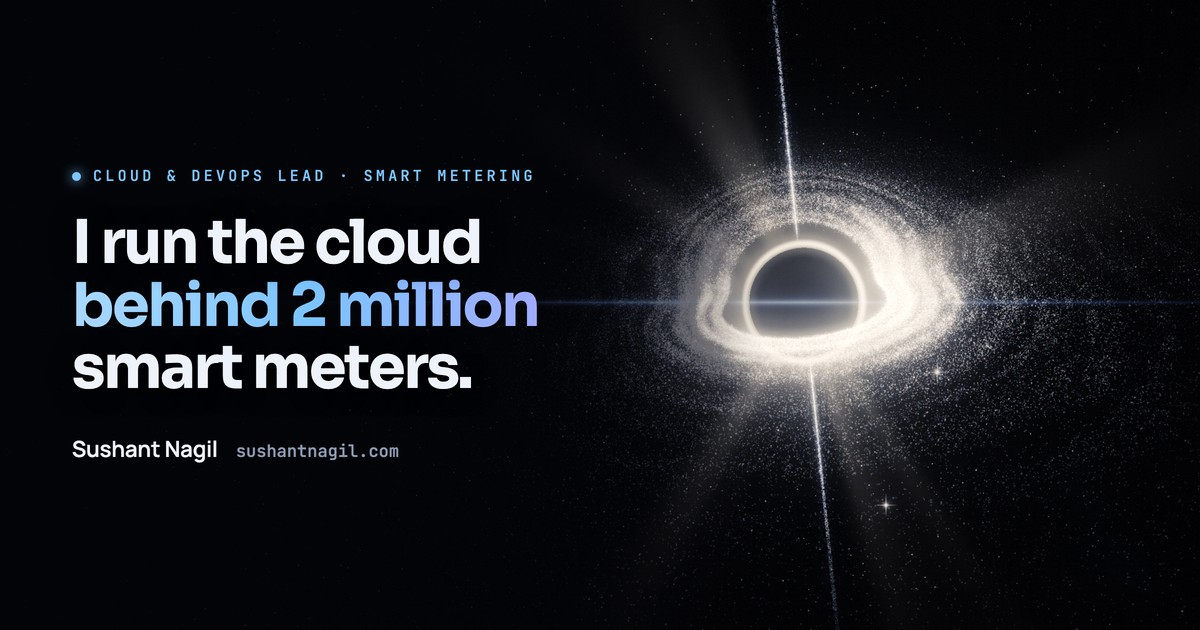
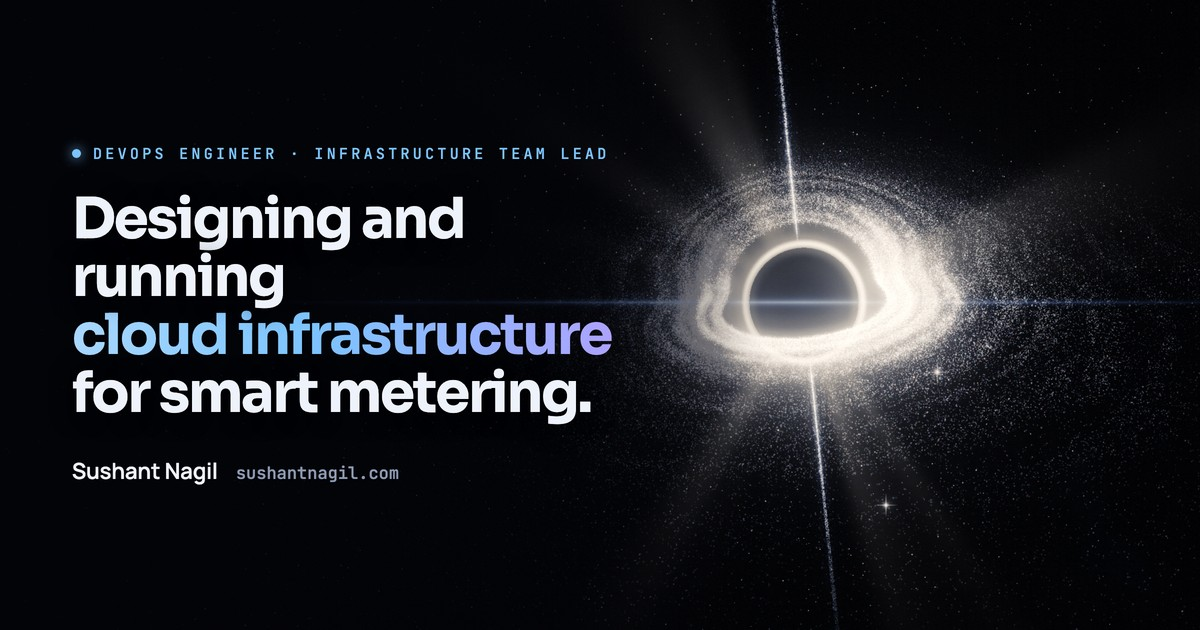
Write about the work I do, not platform scale
The hero and about now describe the role and the kind of decisions I make, with specialties in one line, as other engineers' sites do. Project descriptions lead with what I designed or led. The headline numbers are about my work rather than platform counts that go stale. The contact card is a short sign-off with role, focus areas, certifications and education.

Changed region(s): [[0.0617, 0.2111, 0.5242, 0.6937], [0.0617, 0.6937, 0.3392, 0.7841]]

diff --git a/site/index.html b/site/index.html
@@ -4,7 +4,7 @@
 <meta charset="utf-8">
 <meta name="viewport" content="width=device-width,initial-scale=1,viewport-fit=cover">
 <title>Sushant Nagil</title>
-<meta name="description" content="Sushant Nagil leads the infrastructure team at Polaris Smart Metering, running the AWS and OCI systems behind 2 million smart meters for state utilities in India.">
+<meta name="description" content="Sushant Nagil, DevOps engineer and infrastructure team lead at Polaris Smart Metering. Kubernetes, Kafka and MQTT, multi-account AWS and OCI, and cloud cost.">
 <link rel="canonical" href="https://sushantnagil.com/">
 <meta name="theme-color" content="#030409">
 <link rel="icon" href="/favicon.svg" type="image/svg+xml">
@@ -12,12 +12,12 @@
 <link rel="preload" as="image" href="/media/portrait.jpg" media="(max-aspect-ratio: 4/5)">
 <meta property="og:type" content="website">
 <meta property="og:url" content="https://sushantnagil.com/">
-<meta property="og:title" content="Sushant Nagil · Cloud &amp; DevOps lead">
-<meta property="og:description" content="I lead the infrastructure team at Polaris Smart Metering. We run the AWS and OCI systems behind 2 million smart meters for state utilities in India.">
+<meta property="og:title" content="Sushant Nagil · DevOps Engineer and Infrastructure Team Lead">
+<meta property="og:description" content="Sushant Nagil, DevOps engineer and infrastructure team lead at Polaris Smart Metering. Kubernetes, Kafka and MQTT, multi-account AWS and OCI, and cloud cost.">
 <meta property="og:image" content="https://sushantnagil.com/og.jpg">
 <meta property="og:image:width" content="1200">
 <meta property="og:image:height" content="630">
-<meta property="og:image:alt" content="A glowing black hole on a dark starfield, beside the line: I run the cloud behind 2 million smart meters.">
+<meta property="og:image:alt" content="A glowing black hole on a dark starfield, beside the line: Designing and running cloud infrastructure for smart metering.">
 <meta name="twitter:card" content="summary_large_image">
 <meta name="twitter:image" content="https://sushantnagil.com/og.jpg">
 <style>:root{color-scheme:light;box-sizing:border-box;padding-top:env(safe-area-inset-top,0px);padding-bottom:env(safe-area-inset-bottom,0px)}html{scroll-padding-top:env(safe-area-inset-top,0px)}body{margin:0;padding:0;font:14px -apple-system,BlinkMacSystemFont,sans-serif;background:#faf9f5;color:#141413}img{max-width:100%}[hidden]:not([hidden=until-found i]){display:none!important}</style>
@@ -312,7 +312,7 @@
     display: grid; grid-template-columns: minmax(0, 1fr);
     align-items: center; gap: 48px;
   }
-  .hero-content { max-width: 660px; }
+  .hero-content { max-width: 780px; }
   .hero-label {
     display: flex; align-items: center; gap: 12px;
     margin-bottom: 1.5rem;
@@ -333,8 +333,8 @@
   .hero-title {
     margin-bottom: 1.75rem;
     font-family: var(--display); font-weight: 700;
-    font-size: clamp(2.6rem, 5.4vw, 4.6rem);
-    line-height: 1.02; letter-spacing: -0.035em;
+    font-size: clamp(2.3rem, 4.5vw, 4.1rem);
+    line-height: 1.04; letter-spacing: -0.035em;
   }
   .hero-title .line { display: block; overflow: hidden; padding-bottom: 0.07em; }
   .hero-title .line-inner { display: inline-block; }
@@ -695,6 +695,9 @@
   .avail-status::before { content: ""; width: 8px; height: 8px; border-radius: 50%; background: #6fdc9a; box-shadow: 0 0 12px rgba(111, 220, 154, 0.9); }
   .avail-title { font-family: var(--display); font-weight: 700; font-size: 1.6rem; line-height: 1.2; letter-spacing: -0.02em; }
   .avail-list { display: flex; flex-direction: column; gap: 8px; }
+  .signoff { display: flex; flex-direction: column; gap: 6px; }
+  .signoff li { padding-top: 8px; border-top: 1px solid var(--border); font-size: 0.9rem; color: var(--text-2); }
+  .signoff li:first-child { color: var(--text); }
   .avail-list li { display: flex; justify-content: space-between; gap: 16px; padding-top: 8px; border-top: 1px solid var(--border); font-size: 0.92rem; }
   .avail-list li span:first-child { font-family: var(--mono); font-size: 0.72rem; letter-spacing: 0.12em; text-transform: uppercase; color: var(--muted); padding-top: 2px; }
   .avail-list li span:last-child { text-align: right; color: var(--text-2); }
@@ -816,13 +819,13 @@
     <div class="hero-grid-overlay" aria-hidden="true"></div>
     <div class="container hero-inner">
       <div class="hero-content">
-        <div class="hero-label" id="heroLabel"><span class="pulse"></span>Cloud &amp; DevOps lead · smart metering</div>
+        <div class="hero-label" id="heroLabel"><span class="pulse"></span>DevOps Engineer · Infrastructure Team Lead</div>
         <h1 class="hero-title">
-          <span class="line"><span class="line-inner">I run the cloud</span></span>
-          <span class="line"><span class="line-inner accent">behind 2 million</span></span>
-          <span class="line"><span class="line-inner">smart meters.</span></span>
+          <span class="line"><span class="line-inner">Designing and running</span></span>
+          <span class="line"><span class="line-inner accent">cloud infrastructure</span></span>
+          <span class="line"><span class="line-inner">for smart metering.</span></span>
         </h1>
-        <p class="hero-sub" id="heroSub">I lead the infrastructure team at Polaris Smart Metering. We run the systems that read electricity meters for state utilities in Ladakh, Uttar Pradesh, Tamil Nadu, West Bengal, Manipur and a few more.</p>
+        <p class="hero-sub" id="heroSub">At Polaris Smart Metering I build and look after the AWS and OCI platforms that state electricity utilities across India use to collect and manage smart-meter data.</p>
         <div class="hero-actions" id="heroActions">
           <a class="btn-primary magnetic" href="#projects">See my work
             <svg viewBox="0 0 24 24" fill="none" stroke="currentColor" stroke-width="2" stroke-linecap="round" stroke-linejoin="round" aria-hidden="true"><path d="M12 5v14M6 13l6 6 6-6"/></svg>
@@ -851,7 +854,7 @@
     <div class="container about-grid">
       <div>
         <div class="section-label">About</div>
-        <p class="intro-text" id="introText">Each state project has its own AWS accounts, and some run partly on OCI. My team of five keeps all of it running: the Kubernetes clusters, the MQTT brokers the meters connect to, Kafka, and the databases behind them. I'm not tied to one stack. I use whatever AWS, OCI or open source has that fits the job. Most of my time goes on keeping the AWS bill down and making sure the platform keeps up as more meters come online.</p>
+        <p class="intro-text" id="introText">I'm a DevOps engineer, and I lead a small infrastructure team. Most of my work is in the small decisions that keep a platform healthy: how a cluster scales, where a database should run, which alert is worth waking someone up for, and what a change will cost before it ships. I specialise in Kubernetes autoscaling, Kafka and MQTT, multi-account AWS and FinOps, and I pick up whatever else a project needs on AWS, OCI or open source. I care most about systems that are easy to operate and cheap to run.</p>
       </div>
       <div class="about-visual" id="aboutVisual">
         <svg class="arch" viewBox="0 0 460 480" role="img" aria-label="How device data moves: smart meters to EMQX brokers, Kafka on Strimzi, services on EKS across AWS and OCI, and Grafana alerts">
@@ -940,20 +943,20 @@
   <div class="stats-bar">
     <div class="container stats-grid">
       <div class="stat-item" data-reveal>
-        <div class="stat-number" data-count="2" data-suffix="M+">2M+</div>
-        <div class="stat-label">smart meters in the field</div>
-      </div>
-      <div class="stat-item" data-reveal>
-        <div class="stat-number" data-count="22">22</div>
-        <div class="stat-label">AWS accounts I look after</div>
-      </div>
-      <div class="stat-item" data-reveal>
-        <div class="stat-number" data-count="50" data-prefix="~$" data-suffix="K">~$50K</div>
-        <div class="stat-label">monthly AWS bill I'm responsible for</div>
+        <div class="stat-number" data-count="3" data-suffix="+">3+</div>
+        <div class="stat-label">years running production infrastructure</div>
       </div>
       <div class="stat-item" data-reveal>
         <div class="stat-number" data-count="45" data-prefix="$" data-suffix="K">$45K</div>
-        <div class="stat-label">saved every year from cost work</div>
+        <div class="stat-label">saved a year through cost work</div>
+      </div>
+      <div class="stat-item" data-reveal>
+        <div class="stat-number" data-count="90" data-prefix="~" data-suffix="%">~90%</div>
+        <div class="stat-label">faster builds after reworking CI</div>
+      </div>
+      <div class="stat-item" data-reveal>
+        <div class="stat-number" data-count="4">4</div>
+        <div class="stat-label">current certifications in AWS, Kubernetes and Terraform</div>
       </div>
     </div>
   </div>
@@ -971,7 +974,7 @@
       <div class="section-head" data-reveal>
         <div class="section-label">What I do</div>
         <h2 class="section-title">Expertise</h2>
-        <p class="section-desc">The six areas most of my week goes into, across AWS and OCI.</p>
+        <p class="section-desc">Where I spend most of my time, across AWS and OCI.</p>
       </div>
       <div class="xp-grid">
         <div class="xp-cell" data-reveal>
@@ -981,7 +984,7 @@
               <span class="xp-num">01</span>
             </div>
             <h3>Kubernetes and autoscaling</h3>
-            <p>Four production EKS clusters carry the head-end and meter-data systems. I moved them off managed node groups to Karpenter, scale the Kafka consumers on lag with KEDA, and size pods with Goldilocks-guided VPA. Steady workloads stay on fixed capacity.</p>
+            <p>Designing how workloads scale on EKS: Karpenter for nodes, KEDA for Kafka consumers, HPA and VPA for the rest, and fixed capacity where the load is steady. I also own the version upgrades, AMIs and launch templates.</p>
             <div class="chips"><span>EKS</span><span>OKE</span><span>Karpenter</span><span>KEDA</span><span>HPA</span><span>VPA</span><span>Goldilocks</span><span>Helm</span><span>Argo CD</span></div>
             <div class="xp-bg"><svg viewBox="0 0 24 24" fill="none" stroke="currentColor" stroke-width="1.2" aria-hidden="true"><path d="M12 2.8 19.9 6.6 21.8 15.1 16.4 21.9H7.6L2.2 15.1 4.1 6.6Z"/><circle cx="12" cy="12.4" r="2.6"/></svg></div>
           </article>
@@ -993,7 +996,7 @@
               <span class="xp-num">02</span>
             </div>
             <h3>Kafka and MQTT</h3>
-            <p>Meters connect over MQTT to EMQX clusters sized for 100,000+ connections, and their readings move on through Kafka. I've run Kafka on EC2, moved it to MSK, and now moved it off MSK to Strimzi on our own clusters.</p>
+            <p>Running the messaging layer for IoT traffic: EMQX clusters for device connections and Kafka for everything after. I've moved Kafka from EC2 to MSK and from MSK to Strimzi, and I plan moves like these so they can be rolled back.</p>
             <div class="chips"><span>Kafka</span><span>Strimzi</span><span>MSK</span><span>MirrorMaker 2</span><span>EMQX</span><span>MQTT</span><span>NLB</span></div>
             <div class="xp-bg"><svg viewBox="0 0 24 24" fill="none" stroke="currentColor" stroke-width="1.2" aria-hidden="true"><path d="M3 7.5c2.2-2 4.3 2 6.5 0s4.3 2 6.5 0 3.3-1 5 0"/><path d="M3 12c2.2-2 4.3 2 6.5 0s4.3 2 6.5 0 3.3-1 5 0"/><path d="M3 16.5c2.2-2 4.3 2 6.5 0s4.3 2 6.5 0 3.3-1 5 0"/></svg></div>
           </article>
@@ -1005,7 +1008,7 @@
               <span class="xp-num">03</span>
             </div>
             <h3>Cost and FinOps</h3>
-            <p>I'm responsible for the AWS bill across 22 accounts, about $50K a month. Right-sizing, reserved capacity, retention policies, cleanups and turning dev and stage off out of hours save about $45K a year.</p>
+            <p>Treating cost as part of the design. I go through the AWS bill every month, right-size, buy reserved capacity, set retention policies, and switch off what isn't being used.</p>
             <div class="chips"><span>Cost Explorer</span><span>Savings Plans</span><span>Reserved Instances</span><span>CUR</span><span>Athena</span><span>ECR lifecycle</span><span>tagging</span></div>
             <div class="xp-bg"><svg viewBox="0 0 24 24" fill="none" stroke="currentColor" stroke-width="1.2" aria-hidden="true"><circle cx="12" cy="12" r="8.8"/></svg></div>
           </article>
@@ -1017,7 +1020,7 @@
               <span class="xp-num">04</span>
             </div>
             <h3>Accounts, security and networking</h3>
-            <p>Each state project gets its own AWS accounts, and some run partly on OCI. I set up the landing zone: SSO instead of IAM users, SCP guardrails, cost tags, VPCs per tier and site-to-site VPN into on-prem data centres.</p>
+            <p>Setting up multi-account AWS so it holds up as projects are added: an OU layout, SCP guardrails, SSO instead of IAM users, cost tags, VPCs per tier, and site-to-site VPN into on-prem data centres. Some projects also run on OCI.</p>
             <div class="chips"><span>Organizations</span><span>SCPs</span><span>IAM Identity Center</span><span>Tag Policies</span><span>VPC</span><span>Site-to-site VPN</span><span>OCI</span><span>WAF</span></div>
             <div class="xp-bg"><svg viewBox="0 0 24 24" fill="none" stroke="currentColor" stroke-width="1.2" aria-hidden="true"><path d="M12 3 5 6v5.5c0 4.3 2.9 8 7 9.5 4.1-1.5 7-5.2 7-9.5V6Z"/></svg></div>
           </article>
@@ -1029,7 +1032,7 @@
               <span class="xp-num">05</span>
             </div>
             <h3>Databases and DR</h3>
-            <p>Meter data lives in Aurora and self-managed PostgreSQL, with MySQL behind some older apps. I set up DR with pgBackRest, tune Postgres and PgBouncer for the metering load, and move databases between RDS and EC2 when the cost calls for it.</p>
+            <p>Deciding where data should live and how it comes back after a failure: Aurora and self-managed PostgreSQL, MySQL for older apps, DR with pgBackRest, and tuning for write-heavy workloads.</p>
             <div class="chips"><span>PostgreSQL</span><span>Aurora</span><span>MySQL</span><span>pgBackRest</span><span>PgBouncer</span><span>TimescaleDB</span><span>Valkey</span></div>
             <div class="xp-bg"><svg viewBox="0 0 24 24" fill="none" stroke="currentColor" stroke-width="1.2" aria-hidden="true"><ellipse cx="12" cy="5.5" rx="7.5" ry="2.8"/><path d="M4.5 5.5v13c0 1.5 3.4 2.8 7.5 2.8s7.5-1.3 7.5-2.8v-13"/></svg></div>
           </article>
@@ -1041,7 +1044,7 @@
               <span class="xp-num">06</span>
             </div>
             <h3>Monitoring and on-call</h3>
-            <p>I carry infra on-call for the head-end and meter-data systems. Alerts from every account land in one place through CloudWatch, SNS and Lambda, and I write up the postmortem after an incident.</p>
+            <p>Making alerts worth reading. I route alarms from every account to one place, tune what pages people, carry infra on-call, and write the postmortem after an incident.</p>
             <div class="chips"><span>Prometheus</span><span>Grafana</span><span>Loki</span><span>Fluent Bit</span><span>OpenTelemetry</span><span>CloudWatch</span><span>Alertmanager</span></div>
             <div class="xp-bg"><svg viewBox="0 0 24 24" fill="none" stroke="currentColor" stroke-width="1.2" aria-hidden="true"><path d="M3 12h3.5l2.2-5.5 4.6 11 2.3-5.5H21"/></svg></div>
           </article>
@@ -1055,7 +1058,7 @@
       <div class="section-head" data-reveal>
         <div class="section-label">Work</div>
         <h2 class="section-title">Projects</h2>
-        <p class="section-desc">Things I've built and changed on the platform, with numbers where I have them.</p>
+        <p class="section-desc">Work I've designed or led, and what came out of it.</p>
       </div>
 
       <div data-reveal>
@@ -1063,7 +1066,7 @@
           <div class="featured-copy">
             <div class="proj-head"><span class="proj-num">01</span><div class="proj-tags"><span class="ptag">Streaming</span><span class="ptag amber">Migration</span></div></div>
             <h3>Moving Kafka off MSK, and the mistake I made</h3>
-            <p>We moved Kafka from Amazon MSK to Strimzi, which runs Kafka on our own Kubernetes clusters. I set the new cluster to gzip compression because most of our applications already used it. I didn't check every one.</p>
+            <p>I planned and ran the move of our Kafka clusters from Amazon MSK to Strimzi, which runs Kafka on our own Kubernetes clusters. I set the new cluster to gzip compression because most of our applications already used it. I didn't check every one.</p>
             <p>A few apps used lz4. Once traffic moved over they ran into trouble, and consumer lag kept going up. Going back halfway through wasn't a good option, so I wrote a small transcoder that let the lz4 apps keep working with the gzip messages. They caught up and the migration carried on.</p>
             <p>Now I check every producer and consumer before I change a setting for the whole cluster.</p>
             <div class="chips"><span>Kafka</span><span>Strimzi</span><span>MSK</span><span>MirrorMaker 2</span><span>gzip</span><span>lz4</span></div>
@@ -1088,16 +1091,16 @@
           <article class="proj-card" data-tilt>
             <div class="proj-head"><span class="proj-num">02</span><div class="proj-tags"><span class="ptag">Kubernetes</span></div></div>
             <h3>Layered autoscaling on EKS</h3>
-            <p>Moved the head-end services off static node groups to Karpenter. KEDA scales the Kafka consumers on lag, HPA handles request traffic and Goldilocks-guided VPA sets pod sizes. The meter-data workloads went back to fixed capacity on purpose, because their load is steady.</p>
+            <p>Designed the move of the head-end services from static node groups to Karpenter, with KEDA scaling Kafka consumers on lag, HPA for request traffic and Goldilocks-guided VPA for sizing. I kept the meter-data workloads on fixed capacity on purpose, because their load is steady and moving them around only adds risk.</p>
             <div class="chips"><span>Karpenter</span><span>KEDA</span><span>HPA</span><span>VPA</span></div>
-            <div class="proj-metrics"><div><span class="pm-value">4</span><span class="pm-label">production clusters</span></div><div><span class="pm-value">2M+</span><span class="pm-label">meters served</span></div></div>
+            <div class="proj-metrics"><div><span class="pm-value">4</span><span class="pm-label">production clusters</span></div><div><span class="pm-value">0</span><span class="pm-label">managed node groups left</span></div></div>
           </article>
         </div>
         <div class="proj-cell" data-reveal>
           <article class="proj-card" data-tilt>
             <div class="proj-head"><span class="proj-num">03</span><div class="proj-tags"><span class="ptag amber">FinOps</span></div></div>
             <h3>Cutting the AWS bill</h3>
-            <p>The first round of a cost cleanup across 22 accounts: retention policies on 500+ ECR repositories, 167 unused pipelines, build projects and registries removed after backing each one up, a node group nobody was using, and reserved instances for Aurora.</p>
+            <p>Led the first round of a cost cleanup across our AWS accounts: retention policies on 500+ ECR repositories, 167 unused pipelines, build projects and registries removed after backing each one up, an idle node group switched off, and reserved instances for Aurora.</p>
             <div class="chips"><span>Cost Explorer</span><span>ECR</span><span>CodePipeline</span><span>Reserved Instances</span></div>
             <div class="proj-metrics"><div><span class="pm-value">$45K</span><span class="pm-label">saved a year</span></div><div><span class="pm-value">500+</span><span class="pm-label">ECR repos cleaned up</span></div></div>
           </article>
@@ -1106,7 +1109,7 @@
           <article class="proj-card" data-tilt>
             <div class="proj-head"><span class="proj-num">04</span><div class="proj-tags"><span class="ptag violet">Migration</span><span class="ptag amber">FinOps</span></div></div>
             <h3>Re-platforming a legacy app</h3>
-            <p>An old application on Python 2.7 with MySQL 8 behind it cost about $2,200 a month to run. I moved it onto smaller, cheaper infrastructure, and it works the same for the people who use it.</p>
+            <p>Moved an old application running on Python 2.7 and MySQL 8 onto smaller, cheaper infrastructure, without changing how it works for the people who use it.</p>
             <div class="chips"><span>Python 2.7</span><span>MySQL 8</span><span>EC2</span></div>
             <div class="proj-metrics"><div><span class="pm-value">$2,200 → $1,300</span><span class="pm-label">per month</span></div><div><span class="pm-value">41%</span><span class="pm-label">lower cost</span></div></div>
           </article>
@@ -1115,7 +1118,7 @@
           <article class="proj-card" data-tilt>
             <div class="proj-head"><span class="proj-num">05</span><div class="proj-tags"><span class="ptag">CI/CD</span></div></div>
             <h3>Builds that only rebuild what changed</h3>
-            <p>Every commit used to rebuild and redeploy the whole platform, about 30 minutes even for a one-line change. The pipeline now maps changed paths to services, builds only those, and deploys across accounts with shared IAM roles.</p>
+            <p>Reworked a pipeline that rebuilt and redeployed the whole platform on every commit. It now maps changed paths to services, builds only those, and deploys across accounts with shared IAM roles.</p>
             <div class="chips"><span>CodePipeline</span><span>CodeBuild</span><span>IAM roles</span></div>
             <div class="proj-metrics"><div><span class="pm-value">30 → 3 min</span><span class="pm-label">typical build</span></div><div><span class="pm-value">~90%</span><span class="pm-label">less time per commit</span></div></div>
           </article>
@@ -1124,7 +1127,7 @@
           <article class="proj-card" data-tilt>
             <div class="proj-head"><span class="proj-num">06</span><div class="proj-tags"><span class="ptag">Kubernetes</span></div></div>
             <h3>EKS upgrades across five accounts</h3>
-            <p>Took every cluster from 1.33 to 1.35 before extended-support pricing started. The hard parts were custom AMIs, launch templates that didn't change the way the console said they had, and the IMDS hop limit.</p>
+            <p>Upgraded every cluster from 1.33 to 1.35 before extended-support pricing started. The hard parts were custom AMIs, launch templates that didn't change the way the console said they had, and the IMDS hop limit.</p>
             <div class="chips"><span>EKS</span><span>EC2</span><span>Launch Templates</span><span>AMIs</span></div>
             <div class="proj-metrics"><div><span class="pm-value">5</span><span class="pm-label">AWS accounts</span></div><div><span class="pm-value">1.33 → 1.35</span><span class="pm-label">EKS version</span></div></div>
           </article>
@@ -1133,7 +1136,7 @@
           <article class="proj-card" data-tilt>
             <div class="proj-head"><span class="proj-num">07</span><div class="proj-tags"><span class="ptag violet">Data</span><span class="ptag">Reliability</span></div></div>
             <h3>Postgres DR without a standby</h3>
-            <p>Disaster recovery for self-managed Postgres on EC2, using pgBackRest physical and logical backups instead of streaming replicas. Recovery stays predictable without paying for a second database, and the S3 path is locked so nobody can delete the backups.</p>
+            <p>Designed disaster recovery for self-managed Postgres on EC2 with pgBackRest physical and logical backups instead of streaming replicas, so recovery stays predictable without paying for a second database. The S3 path is locked so nobody can delete the backups.</p>
             <div class="chips"><span>PostgreSQL</span><span>pgBackRest</span><span>S3</span><span>IAM</span></div>
             <div class="proj-metrics"><div><span class="pm-value">0</span><span class="pm-label">standby servers</span></div><div><span class="pm-value">Delete-proof</span><span class="pm-label">backups in S3</span></div></div>
           </article>
@@ -1141,17 +1144,17 @@
         <div class="proj-cell" data-reveal>
           <article class="proj-card" data-tilt>
             <div class="proj-head"><span class="proj-num">08</span><div class="proj-tags"><span class="ptag">Governance</span></div></div>
-            <h3>A landing zone for 22 accounts</h3>
-            <p>Designed the OU layout, SCP guardrails, tag policy and SSO permission sets, and moved the team off IAM users. Cost tags stay report-only on purpose, because enforcing them would have blocked node launches in the middle of a scale-up.</p>
+            <h3>A landing zone for the whole organisation</h3>
+            <p>Designed the OU layout, SCP guardrails, tag policy and SSO permission sets, and moved the team off IAM users. I kept cost tags report-only on purpose, because enforcing them would have blocked node launches in the middle of a scale-up.</p>
             <div class="chips"><span>Organizations</span><span>SCPs</span><span>Tag Policies</span><span>IAM Identity Center</span></div>
-            <div class="proj-metrics"><div><span class="pm-value">22</span><span class="pm-label">AWS accounts</span></div><div><span class="pm-value">56% → 100%</span><span class="pm-label">instances tagged</span></div></div>
+            <div class="proj-metrics"><div><span class="pm-value">56% → 100%</span><span class="pm-label">instances tagged</span></div><div><span class="pm-value">SSO</span><span class="pm-label">in place of IAM users</span></div></div>
           </article>
         </div>
         <div class="proj-cell" data-reveal>
           <article class="proj-card" data-tilt>
             <div class="proj-head"><span class="proj-num">09</span><div class="proj-tags"><span class="ptag amber">Capacity</span></div></div>
             <h3>Capacity model for 10 million meters</h3>
-            <p>Built the model from 14 days of production data (Kafka offsets, load-balancer logs, database load) instead of multiplying today's numbers by five. Pods and Kafka partitions scale out fine. The database writer doesn't, because its load is almost all writes.</p>
+            <p>Built a capacity model for a 10-million-meter rollout from 14 days of production data, instead of multiplying today's numbers. It showed that pods and Kafka partitions scale out fine and the database writer doesn't, because its load is almost all writes.</p>
             <div class="chips"><span>Kafka</span><span>Aurora</span><span>Performance Insights</span><span>Locust</span></div>
             <div class="proj-metrics"><div><span class="pm-value">10M</span><span class="pm-label">meters modelled</span></div><div><span class="pm-value">14 days</span><span class="pm-label">of production data</span></div></div>
           </article>
@@ -1160,7 +1163,7 @@
           <article class="proj-card" data-tilt>
             <div class="proj-head"><span class="proj-num">10</span><div class="proj-tags"><span class="ptag violet">Open source</span></div></div>
             <h3>This website</h3>
-            <p>A static page on Cloudflare's free plan. Every script is pinned and hashed under a strict CSP, the background is rendered once and served as video, and a daily GitHub workflow checks the live site from outside.</p>
+            <p>Built and host this site on Cloudflare's free plan. Every script is pinned and hashed under a strict CSP, the background is rendered once and served as video, and a daily GitHub workflow checks the live site from outside.</p>
             <a class="proj-link" href="https://github.com/sushant-enigma/portfolio-site" target="_blank" rel="noopener">View on GitHub ↗</a>
             <div class="chips"><span>Cloudflare Workers</span><span>CSP</span><span>GitHub Actions</span></div>
             <div class="proj-metrics"><div><span class="pm-value">$0</span><span class="pm-label">hosting beyond the domain</span></div><div><span class="pm-value">32</span><span class="pm-label">checks every day</span></div></div>
@@ -1175,7 +1178,7 @@
       <div class="section-head" data-reveal>
         <div class="section-label">Incidents</div>
         <h2 class="section-title">Incidents I've debugged</h2>
-        <p class="section-desc">A few production problems and how I tracked them down.</p>
+        <p class="section-desc">A few production problems I tracked down, and what I changed afterwards.</p>
       </div>
 
       <div class="proj-grid">
@@ -1296,11 +1299,12 @@
       <div data-reveal>
         <div class="avail-card">
           <div class="orbit-g" aria-hidden="true"><div class="ring"></div><div class="ring r2"></div><div class="core"></div></div>
-          <p class="avail-title">Jaipur, India</p>
-          <ul class="avail-list">
-            <li><span>Work</span><span>Cloud &amp; DevOps lead, Polaris Smart Metering</span></li>
-            <li><span>Stack</span><span>AWS, OCI, Kubernetes, Kafka, MQTT</span></li>
-            <li><span>Certified</span><span>CKA, AWS Solutions Architect and Data Engineer, Terraform</span></li>
+          <p class="avail-title">Sushant Nagil</p>
+          <ul class="signoff">
+            <li>DevOps Engineer · Infrastructure Team Lead, Polaris Smart Metering</li>
+            <li>Kubernetes · Kafka &amp; MQTT · AWS &amp; OCI · FinOps</li>
+            <li>CKA · AWS Solutions Architect · AWS Data Engineer · Terraform</li>
+            <li>B.Tech Computer Science, BKBIET Pilani · Jaipur, India</li>
           </ul>
         </div>
       </div>
@@ -1363,7 +1367,7 @@
 
     // ---------- split about text into words ----------
     var introEl = document.getElementById('introText');
-    var HL = ['aws', 'oci', 'kubernetes', 'mqtt', 'kafka'];
+    var HL = ['kubernetes', 'kafka', 'mqtt', 'aws', 'oci', 'finops'];
     var words = [];
     var parts = introEl.textContent.trim().split(/\s+/);
     introEl.textContent = '';
